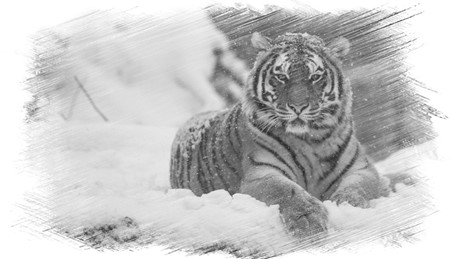
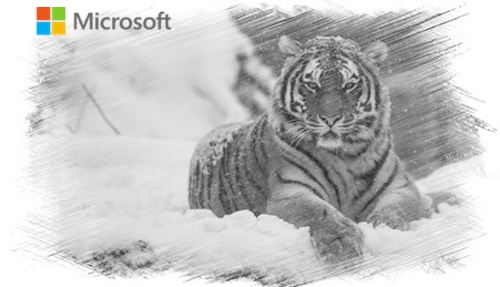
readme

Changed region(s): [[0.0621, 0.0, 0.3415, 0.1236]]

diff --git a/README.md b/README.md
@@ -1,13 +1,13 @@
-![microsoft](images/microsoft.png)
+<div style="text-align: center"><img src="images/tiger.jpg" width="700" /></div>
 
-# Purview Stuff
+# Purview *Stuff*
 
 [![en](https://img.shields.io/badge/lang-en-blue.svg)](README.md)
 [![dk](https://img.shields.io/badge/lang-dk-red.svg)](README-da.md)
 [![de](https://img.shields.io/badge/lang-de-yellow.svg)](README-de.md)
 [![main](https://img.shields.io/badge/main-document-green.svg)](README.md)
 
-<div style="text-align: center"><img src="images/tiger.jpg" width="400" /></div>
+
 
 ## Introduction
 

diff --git a/README-da.md b/README-da.md
@@ -1,6 +1,6 @@
-![microsoft](images/microsoft.png)
+<div style="text-align: center"><img src="images/tiger.jpg" width="700" /></div>
 
-# Purview Stuff
+# Purview *Stuff*
 
 [![en](https://img.shields.io/badge/lang-en-blue.svg)](README.md)
 [![dk](https://img.shields.io/badge/lang-dk-red.svg)](README-da.md)

diff --git a/README-de.md b/README-de.md
@@ -1,6 +1,6 @@
-![microsoft](images/microsoft.png)
+<div style="text-align: center"><img src="images/tiger.jpg" width="700" /></div>
 
-# Purview Stuff
+# Purview *Stuff*
 
 [![en](https://img.shields.io/badge/lang-en-blue.svg)](README.md)
 [![dk](https://img.shields.io/badge/lang-dk-red.svg)](README-da.md)
